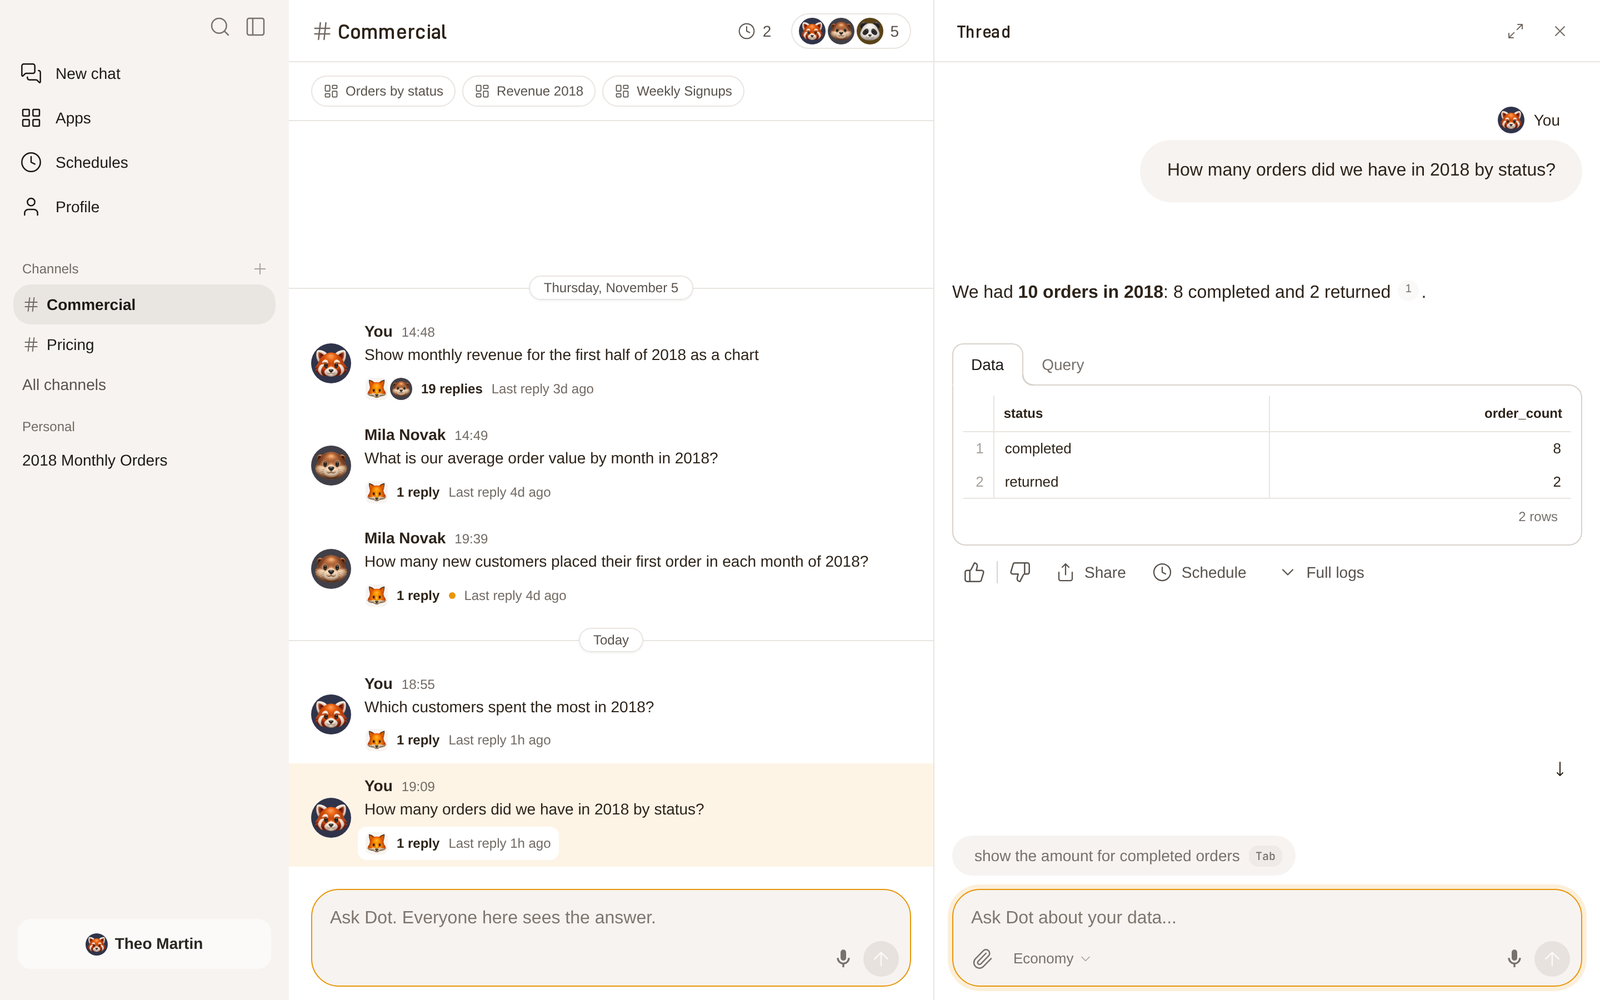
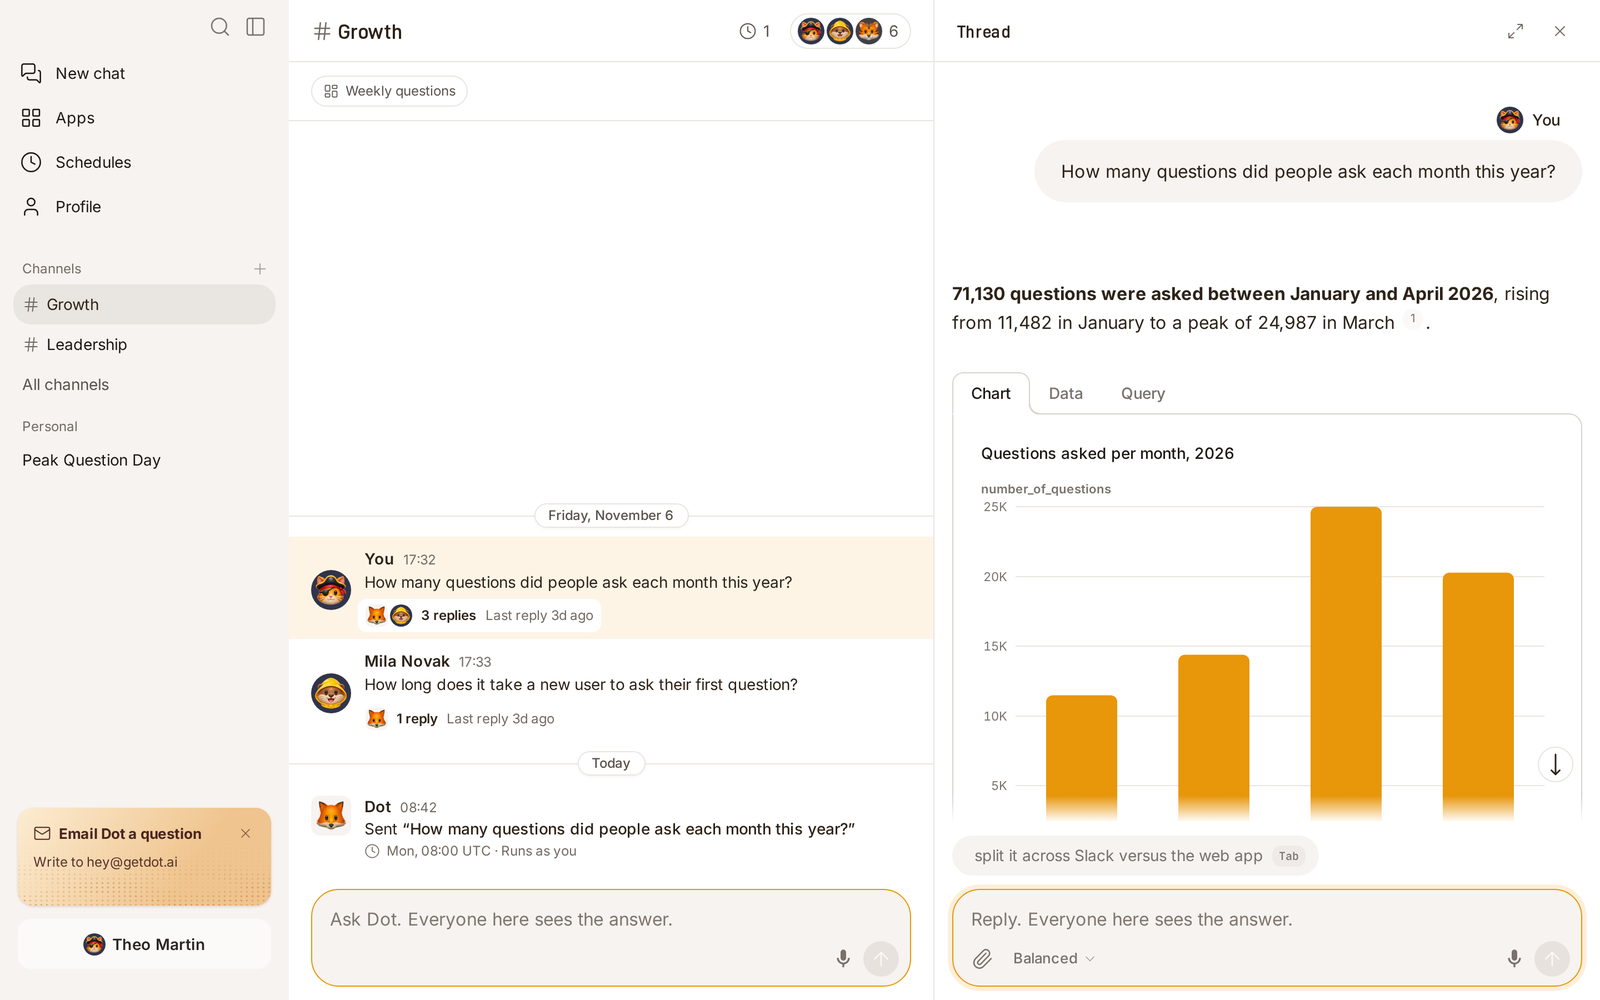
docs: app cards are pictures; readers and reports
An app card is a picture of the app's first screen again, and the
cards' toggle is Hide pictures. A reader is told in a channel and in
a thread who can let them ask, and a thread offers a private chat. A
chat moved into a channel says when it was first asked, and a
schedule's post opens what it sent. New pictures of the channel and
a thread.

diff --git a/dot/dot/whats-dot/teams.md b/dot/dot/whats-dot/teams.md
@@ -34,7 +34,7 @@ Each channel names the groups and people who can open it, and what they can do t
 
 Admins open every channel. Everything that is in no channel is personal: only you and admins can open it, unless you share its link.
 
-To see who is in a channel, click the faces at the top of it. The number beside them says how many people can open it. In a channel you can only view, the place of the box says who can add you.
+To see who is in a channel, click the faces at the top of it. The number beside them says how many people can open it. In a channel you can only read, the place of the box says who can let you ask. A thread says the same, and offers **Continue in a private chat**.
 
 ## Start a channel
 
@@ -58,13 +58,13 @@ You are always in a channel you start. You and the workspace's admins can rename
 
 ## Apps in a channel
 
-A channel's apps sit at the top of it. An app with headline numbers shows its first ones on its card, live and with your own data. Any other app shows a picture of its first screen. Click a card to open the app. **Show names** turns the cards into a row of names. While a thread is open, and on a phone, the apps show as names.
+A channel's apps sit at the top of it. Each card shows a picture of the app's first screen, with your own data. Click a card to open the app. **Hide pictures** turns the cards into a row of names. While a thread is open, and on a phone, the apps show as names.
 
 An app is in a channel when it is published to that channel's folder on the **Apps** page.
 
 ## Put a chat in a channel
 
-In the sidebar, click **⋮** beside the chat, then **Move to a channel** and the channel. The chat leaves **Personal** and becomes a question in the channel.
+In the sidebar, click **⋮** beside the chat, then **Move to a channel** and the channel. The chat leaves **Personal** and becomes a question in the channel. Its post says when it was first asked.
 
 Or from the chat itself:
 
@@ -95,7 +95,7 @@ To make the sidebar wider, for long chat titles or channel names, drag its right
 
 ## Schedules in a channel
 
-The clock at the top of a channel lists the schedules that deliver its chats and apps, and whose data access each one runs with. When a schedule runs, its delivery shows in the channel. On the **Schedules** page your own schedules come first, then **Channels**: the schedules in the channels you are in.
+The clock at the top of a channel lists the schedules that deliver its chats and apps, and whose data access each one runs with. When a schedule runs, its delivery shows in the channel. Click it to see what was sent. On the **Schedules** page your own schedules come first, then **Channels**: the schedules in the channels you are in.
 
 * People who can edit the channel can pause and resume a teammate's schedule. It keeps running as its owner.
 * Editing a teammate's schedule makes it yours. From then on it runs with your data access, and the editor says so before you save.
